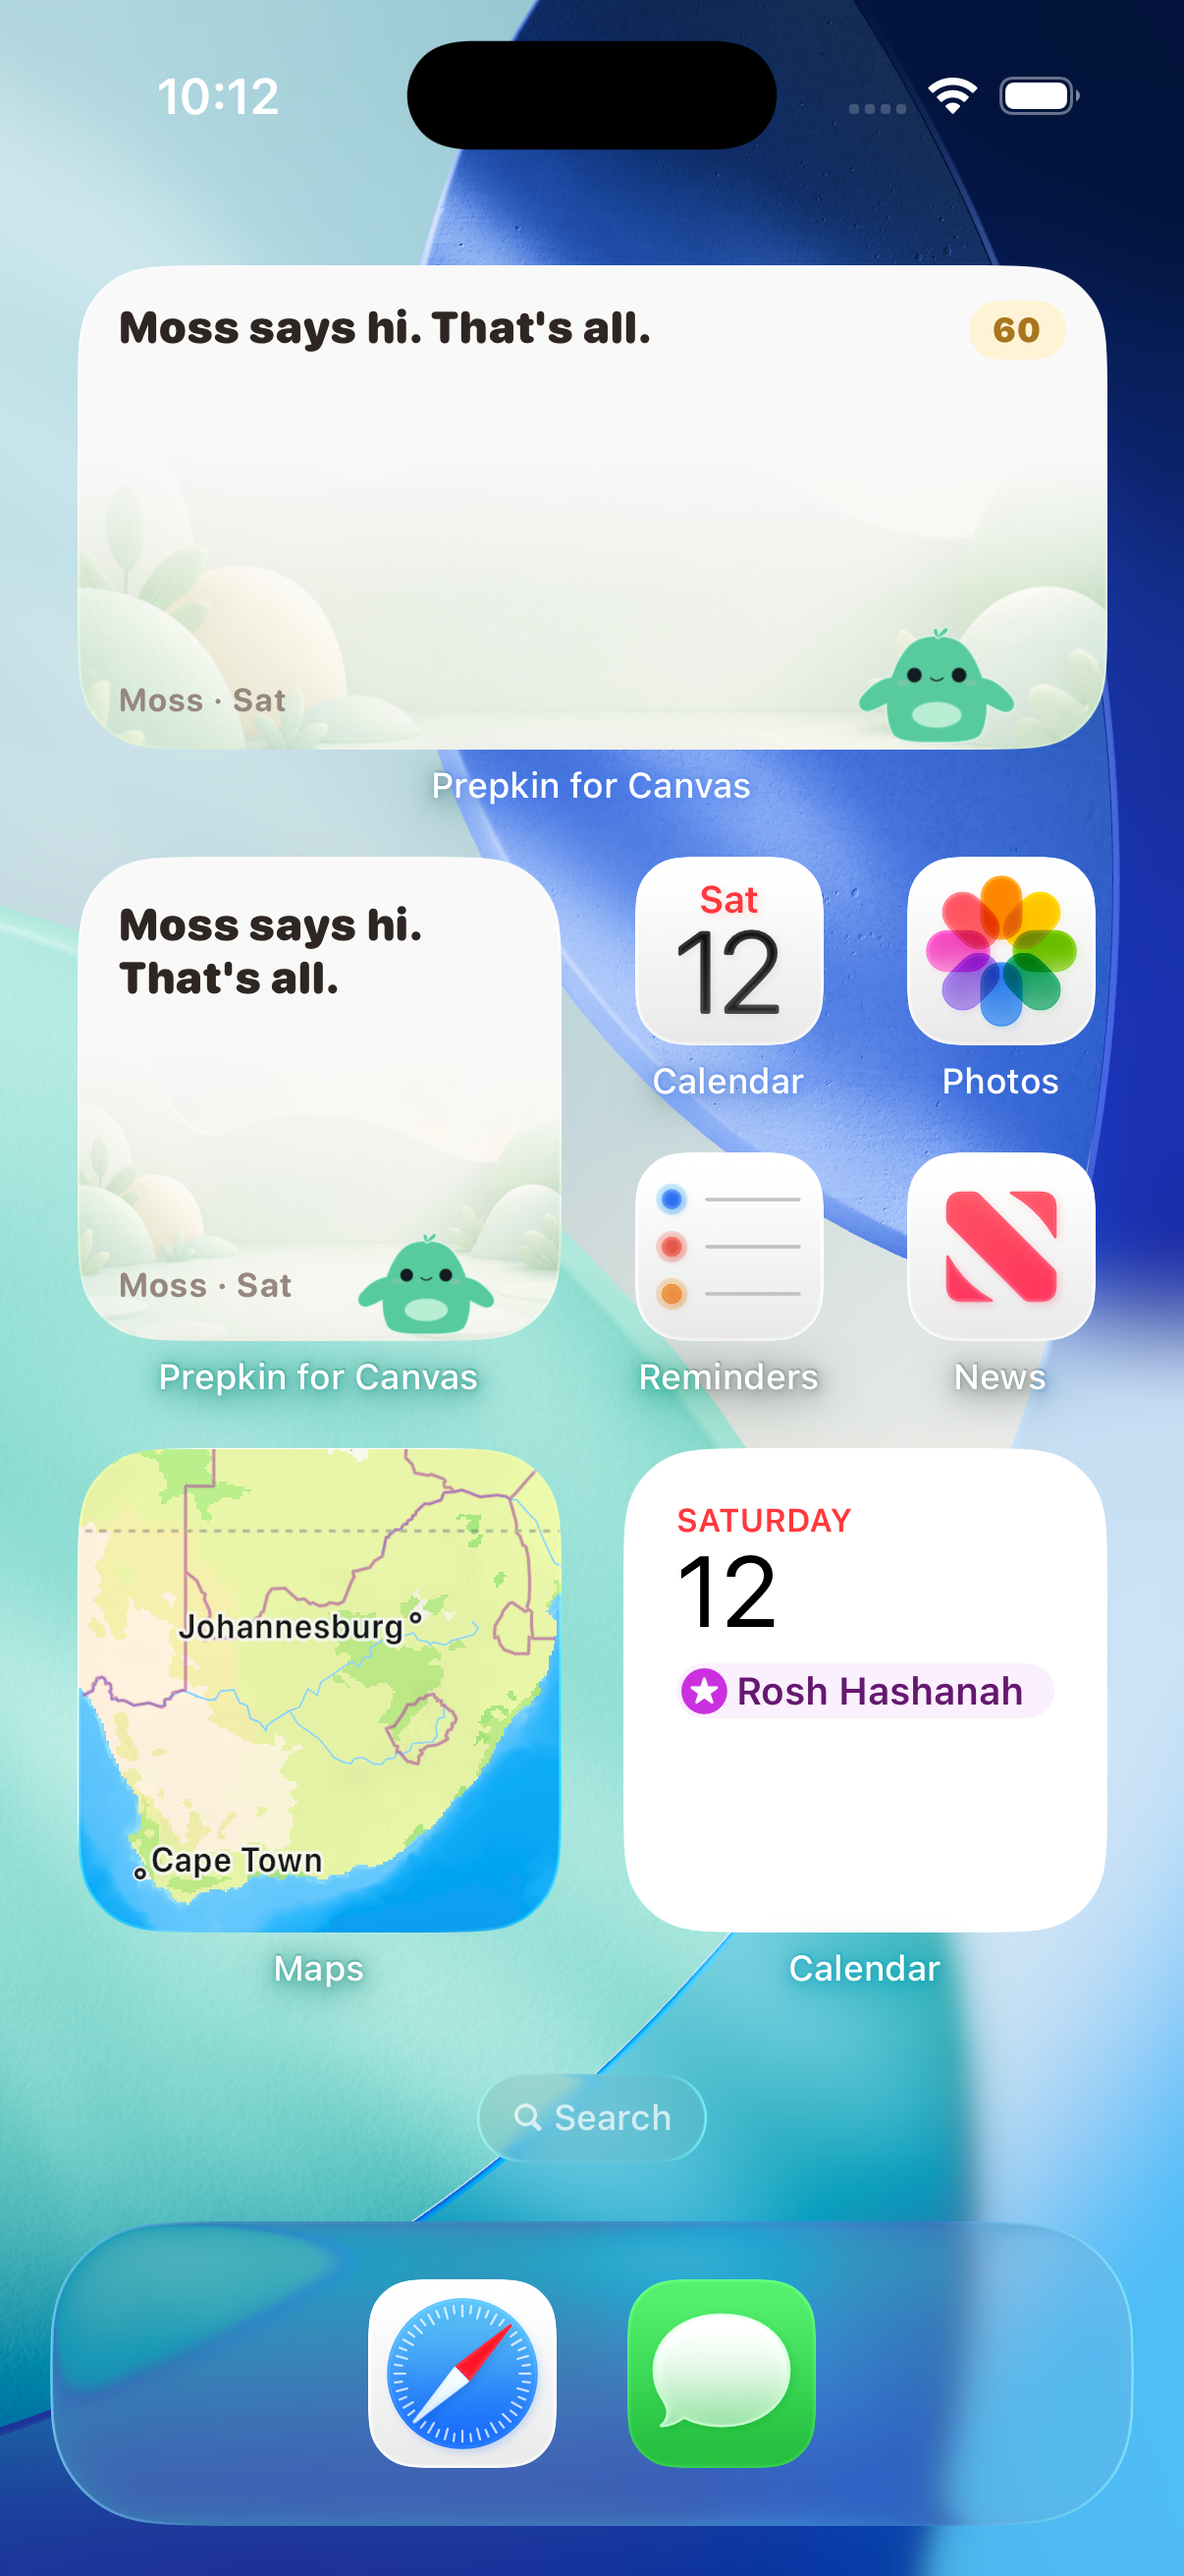
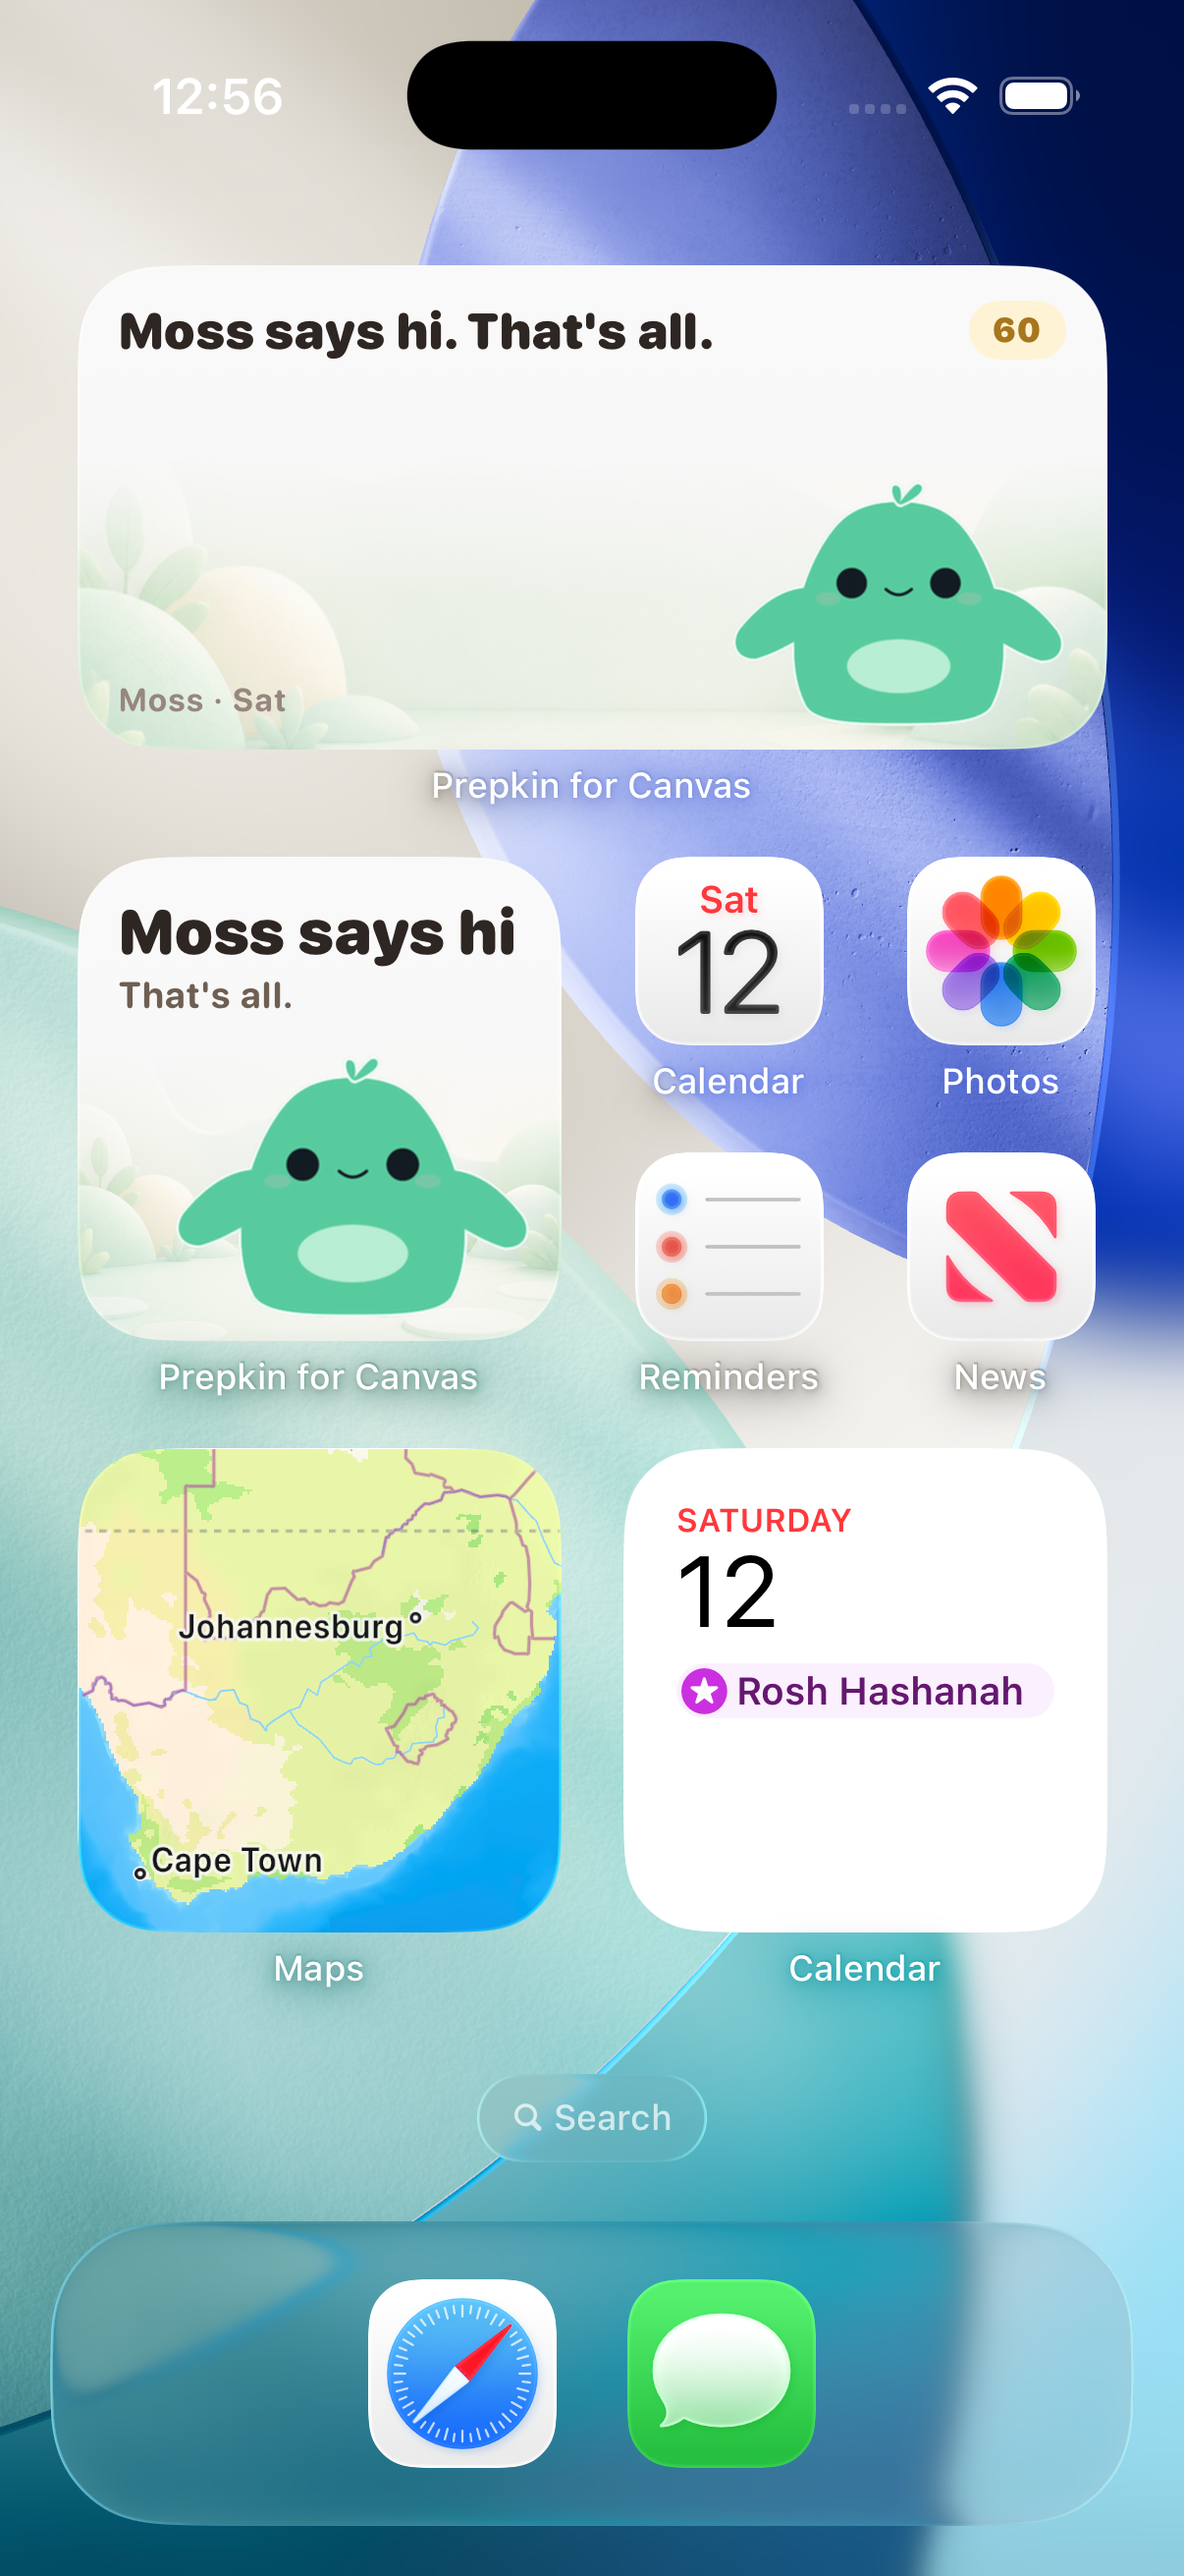
Widget: a head and a line, the way every pet widget says it
The small tile said a 40-character sentence. Duolingo's says "845 / Last
chance!", Me+'s "7 / Awesome!", Mimo's "1 / Well done!", Alan's "0 /
Let's get rolling!", and Finch's a one-word adventure state over the
bird. Ours now says "2 left" in big type over the first open task, and
the fish. The same rules in the same order, fewer words: "3 to do /
Read for one class", "2 left / Go to office hours", "All done / Moss
noticed.", "8:00 PM / Bio quiz due", "On shift / until 1:21 PM", "Moss /
is still here.", and a day-bank line split at its first full stop
("Nothing due / Enjoy it."). The name-and-day stamp is gone from the
small tile; none of the references carry one, the mascot is the name.
The medium shows the head alone, since its rows say the rest.

Tests: the head and line for every row at 9 AM, 3 PM and 9 PM; every
bank line splits to a head the big type holds; heads stay under 14.

diff --git a/ios/Widget/PrepkinWidget.swift b/ios/Widget/PrepkinWidget.swift
@@ -95,44 +95,44 @@ struct WidgetRoot: View {
     }
 }
 
-/// Four icon spots: the line top left, the kin bottom right, "Moss · Wed" under the line.
+/// Four icon spots: a big head top left ("2 left"), a small line under it, the
+/// kin three quarters of the tile wide in the bottom right. Duolingo's tile,
+/// Me+'s, Mimo's and Finch's are all this: a number or two words, a few more
+/// words, the mascot. No sentences and no name stamp — the fish is the name.
 struct SmallWidget: View {
     let entry: SnapshotEntry
     /// Three quarters of a 170pt tile. Measured off five pet widgets on Mobbin
     /// (Finch 88%, Duolingo 75%, Mimo 75%, Me+ 60%, Alan 100%); the middle of
-    /// that, and still clear of a three-line title.
+    /// that, and still clear of the two lines of text.
     static let kinSize: CGFloat = 126
 
     var body: some View {
         let snap = entry.snapshot ?? .sample
-        let line = entry.snapshot.map { WidgetLine.line(for: $0, now: entry.date) } ?? "Open Prepkin once."
-        // The kin is three quarters of the tile wide, the way Finch's bird,
-        // Duolingo's owl and Mimo's robot are on theirs: the text sits on top,
-        // the mascot owns the bottom. The stamp moves up under the line so the
-        // fish has the whole lower right.
+        let tile = entry.snapshot.map { WidgetLine.tile(for: $0, now: entry.date) } ?? (head: "Hi", sub: "Open Prepkin once.")
         ZStack(alignment: .bottomTrailing) {
             TankBand()
             KinStill(snapshot: snap, size: Self.kinSize)
                 .padding(.trailing, 8)
                 .padding(.bottom, 8)
-            VStack(alignment: .leading, spacing: 3) {
-                Text(line)
-                    .font(.system(size: 15, weight: .black, design: .rounded))
+            VStack(alignment: .leading, spacing: 1) {
+                Text(tile.head)
+                    .font(.system(size: 26, weight: .black, design: .rounded))
                     .foregroundStyle(Theme.ink)
-                    .lineLimit(3)
+                    .lineLimit(1)
+                    .minimumScaleFactor(0.6)
+                Text(tile.sub)
+                    .font(.system(size: 12.5, weight: .bold, design: .rounded))
+                    .foregroundStyle(Theme.tabInk)
+                    .lineLimit(2)
                     .minimumScaleFactor(0.85)
                     .fixedSize(horizontal: false, vertical: true)
-                Text(WidgetLine.stamp(snap.name, entry.date))
-                    .font(.system(size: 11.5, weight: .bold, design: .rounded))
-                    .foregroundStyle(Theme.muted)
-                    .lineLimit(1)
             }
             .padding(.horizontal, 14)
-            .padding(.top, 14)
+            .padding(.top, 13)
             .frame(maxWidth: .infinity, maxHeight: .infinity, alignment: .topLeading)
         }
         .accessibilityElement(children: .ignore)
-        .accessibilityLabel("\(line) \(snap.name).")
+        .accessibilityLabel("\(tile.head). \(tile.sub) \(snap.name).")
     }
 }
 
@@ -244,7 +244,7 @@ struct MediumWidget: View {
 
     var body: some View {
         let snap = entry.snapshot ?? .sample
-        let line = entry.snapshot.map { WidgetLine.line(for: $0, now: entry.date) } ?? "Open Prepkin once."
+        let tile = entry.snapshot.map { WidgetLine.tile(for: $0, now: entry.date) } ?? (head: "Hi", sub: "Open Prepkin once.")
         let rows = WidgetLine.rows(for: snap, now: entry.date)
         let open = WidgetLine.today(snap, now: entry.date).filter { !$0.done }.count
         ZStack(alignment: .bottomTrailing) {
@@ -253,12 +253,14 @@ struct MediumWidget: View {
                 .padding(.trailing, 12)
                 .padding(.bottom, 8)
             VStack(alignment: .leading, spacing: 0) {
+                // The head alone: the rows under it say what is left, so the
+                // sentence the small tile needs would only repeat them.
                 HStack(alignment: .top, spacing: 8) {
-                    Text(line)
-                        .font(.system(size: 15, weight: .black, design: .rounded))
+                    Text(rows.isEmpty ? "\(tile.head). \(tile.sub)" : tile.head)
+                        .font(.system(size: 17, weight: .black, design: .rounded))
                         .foregroundStyle(Theme.ink)
-                        .lineLimit(2)
-                        .minimumScaleFactor(0.85)
+                        .lineLimit(1)
+                        .minimumScaleFactor(0.8)
                     Spacer(minLength: 0)
                     CoinPill(coins: snap.coins)
                 }
@@ -270,7 +272,7 @@ struct MediumWidget: View {
                 .padding(.top, 8)
                 .padding(.trailing, 132)
                 Spacer(minLength: 2)
-                Text(open > 0 ? "Tap a box to finish it · \(open) left" : WidgetLine.stamp(snap.name, entry.date))
+                Text(open > 0 ? "Tap a box to finish it" : WidgetLine.stamp(snap.name, entry.date))
                     .font(.system(size: 11, weight: .bold, design: .rounded))
                     .foregroundStyle(Theme.muted)
                     .lineLimit(1)

diff --git a/ios/Tests/WidgetLineTests.swift b/ios/Tests/WidgetLineTests.swift
@@ -83,6 +83,52 @@ final class WidgetLineTests: XCTestCase {
                        "1 thing today. Essay outline first.", "a shift that ended is not a shift")
     }
 
+    // MARK: - The small tile: a head and a line, no sentences
+
+    private func tiles(_ s: WidgetSnapshot, day: Int = 9) -> [(head: String, sub: String)] {
+        hours.map { WidgetLine.tile(for: s, now: at(day, $0), calendar: calendar) }
+    }
+
+    func testTheTileSaysANumberThenTheFirstTask() {
+        let s = snap(tasks: [task("q", "Bio quiz", daily: false), task("e", "Essay outline"), task("w", "10 minute walk")])
+        for t in tiles(s) { XCTAssertEqual(t.head, "3 to do"); XCTAssertEqual(t.sub, "Bio quiz") }
+        let some = snap(tasks: [task("q", "Bio quiz", done: true, daily: false), task("e", "Essay outline"), task("w", "10 minute walk")])
+        for t in tiles(some) { XCTAssertEqual(t.head, "2 left"); XCTAssertEqual(t.sub, "Essay outline") }
+        let all = snap(tasks: [task("q", "Bio quiz", done: true), task("e", "Essay outline", done: true)])
+        for t in tiles(all) { XCTAssertEqual(t.head, "All done"); XCTAssertEqual(t.sub, "Moss noticed.") }
+    }
+
+    func testTheTileLeadsWithTheTimeWhenSomethingIsDueSoon() {
+        let s = snap(tasks: [task("q", "Bio quiz", due: at(9, 20), daily: false), task("e", "Essay outline")])
+        let t = WidgetLine.tile(for: s, now: at(9, 17, 30), calendar: calendar)
+        XCTAssertEqual(t.head, at(9, 20).formatted(.dateTime.hour().minute()))
+        XCTAssertEqual(t.sub, "Bio quiz due")
+    }
+
+    func testTheTileOnShiftAndAway() {
+        let shift = snap(tasks: [task("e", "Essay outline")], shiftEndsAt: at(9, 23))
+        let t = WidgetLine.tile(for: shift, now: at(9, 22), calendar: calendar)
+        XCTAssertEqual(t.head, "On shift")
+        XCTAssertEqual(t.sub, "until \(at(9, 23).formatted(.dateTime.hour().minute()))")
+        let away = snap(tasks: [task("e", "Essay outline")], on: 6, lastOpened: at(6, 8))
+        for t in tiles(away) { XCTAssertEqual(t.head, "Moss"); XCTAssertEqual(t.sub, "is still here.") }
+    }
+
+    func testTheTileSplitsABankLineIntoHeadAndSub() {
+        XCTAssertEqual(WidgetLine.splitBank("Nothing due. Enjoy it.").head, "Nothing due")
+        XCTAssertEqual(WidgetLine.splitBank("Nothing due. Enjoy it.").sub, "Enjoy it.")
+        XCTAssertEqual(WidgetLine.splitBank("Free day. Moss approves.").head, "Free day")
+        XCTAssertEqual(WidgetLine.splitBank("Quiet tank today.").head, "Nothing due")
+        XCTAssertEqual(WidgetLine.splitBank("Quiet tank today.").sub, "Quiet tank today.")
+        XCTAssertEqual(WidgetLine.splitBank("Moss is watching the bubbles.").head, "Nothing due")
+        // Every bank line yields a head the big type can hold on one line.
+        for line in DayBank.lines {
+            XCTAssertLessThanOrEqual(WidgetLine.splitBank(line).head.count, WidgetLine.headLength, line)
+        }
+        let empty = snap(tasks: [])
+        for t in tiles(empty) { XCTAssertFalse(t.head.isEmpty); XCTAssertFalse(t.sub.isEmpty) }
+    }
+
     // MARK: - The day after
 
     func testYesterdaysSnapshotBringsTheDailiesBackAndDropsTheRest() {
@@ -137,7 +183,11 @@ final class WidgetLineTests: XCTestCase {
                 lines.append(WidgetLine.line(for: s, now: now, calendar: calendar))
                 lines.append(WidgetLine.count(for: s, now: now, calendar: calendar))
                 lines.append(WidgetLine.stamp(s.name, now))
-                lines.append("Tap a box to finish it · 12 left")
+                lines.append("Tap a box to finish it")
+                let tile = WidgetLine.tile(for: s, now: now, calendar: calendar)
+                lines.append(tile.head)
+                lines.append(tile.sub)
+                XCTAssertLessThanOrEqual(tile.head.count, 14, tile.head)
             }
         }
         let banned = ["streak", "missed", "lose", "!", "day count", "days"]

diff --git a/ios/Widget/WidgetLine.swift b/ios/Widget/WidgetLine.swift
@@ -44,6 +44,53 @@ enum WidgetLine {
         return lead + fit(open[0].title, leaving: lead.count + " first.".count) + " first."
     }
 
+    /// What the small tile says: a short head in big type and a smaller line
+    /// under it. The grammar of every pet widget on Mobbin — Duolingo's
+    /// "845 / Last chance!", Me+'s "7 / Awesome!", Mimo's "1 / Well done!",
+    /// Finch's one-word adventure state — a number or two words, then a few
+    /// more, then the mascot. Same rules and order as `line`, fewer words.
+    static func tile(for snap: WidgetSnapshot, now: Date, calendar: Calendar = .current) -> (head: String, sub: String) {
+        let name = snap.name
+        if let end = snap.shiftEndsAt, end > now {
+            return ("On shift", "until \(end.formatted(.dateTime.hour().minute()))")
+        }
+        if let away = calendar.dateComponents([.day], from: snap.lastOpenedAt, to: now).day,
+           away >= awayAfterDays {
+            return (name, "is still here.")
+        }
+        let tasks = today(snap, now: now, calendar: calendar)
+        let open = tasks.filter { !$0.done }
+        if let soon = open.filter({ $0.dueAt.map { $0 > now && $0 <= now + dueWindow } ?? false })
+            .min(by: { $0.dueAt! < $1.dueAt! }) {
+            return (soon.dueAt!.formatted(.dateTime.hour().minute()), fit(soon.title, leaving: 20) + " due")
+        }
+        if tasks.isEmpty {
+            return splitBank(DayBank.line(name: name, on: now, seed: snap.dayBankSeed, calendar: calendar))
+        }
+        if open.isEmpty {
+            return ("All done", "\(name) noticed.")
+        }
+        let done = tasks.count - open.count
+        if done > 0 {
+            return ("\(open.count) left", fit(open[0].title, leaving: 20))
+        }
+        return ("\(open.count) to do", fit(open[0].title, leaving: 20))
+    }
+
+    /// The longest head the big type takes on one line of the small tile.
+    static let headLength = 12
+
+    /// "Nothing due. Enjoy it." → "Nothing due" / "Enjoy it." A bank line with
+    /// no break, or a head too long for the big type, goes under "Nothing due".
+    static func splitBank(_ line: String) -> (head: String, sub: String) {
+        if let range = line.range(of: ". ") {
+            let head = String(line[..<range.lowerBound])
+            let sub = String(line[range.upperBound...])
+            if head.count <= headLength { return (head, sub) }
+        }
+        return ("Nothing due", line)
+    }
+
     /// The list as it stands now. The snapshot is only rewritten when the app
     /// runs, so on a later day the dailies are open again, open Canvas work is
     /// still open, and the rest of that day's list is unknowable and left off.

diff --git a/design/screenshots/widget-2026-09-12/README.md b/design/screenshots/widget-2026-09-12/README.md
@@ -10,6 +10,7 @@ notification was delivered with `xcrun simctl push`.
 | Piece | Copies | Mobbin |
 |---|---|---|
 | Small widget: the kin, one line, tap opens the app | Finch's home screen widget (the bird and a line); Apple's Weather and Reminders for the size grammar, small is one thing | [d11b11e0](https://mobbin.com/screens/d11b11e0-3abc-4c9a-8cc7-31e98c571367) (the "Lee widget" card shows the widget itself) |
+| The small tile's words: a big head ("2 left") and a short line under it, nothing else | Duolingo "845 / Last chance!", Me+ "7 / Awesome!", Mimo "1 / Well done!", Alan "0 / Let's get rolling!", Finch's one-word adventure state. A number or two words, a few more words, the mascot. No sentences, no name stamp. | same five screens as the row below |
 | The kin's size on the small tile: 126pt of 170, three quarters | Measured off five pet widgets: Finch ~88% wide, Duolingo ~75%, Mimo ~75%, Me+ ~60%, Alan 100%. The middle of that, and still clear of a three-line title. | [c78046b1](https://mobbin.com/screens/c78046b1-5d17-4225-ad76-2d66a72ac8bd) Duolingo, [f5333bf0](https://mobbin.com/screens/f5333bf0-bc83-4ccc-aa63-615816678920) Mimo, [64d3a0fd](https://mobbin.com/screens/64d3a0fd-6639-4638-a576-ebb7cf2c3d93) Me+, [59d37b2f](https://mobbin.com/screens/59d37b2f-8b61-4da5-8e95-e917a1b7f622) Alan |
 | Medium widget: a list with boxes | Apple's Reminders widget: medium is a list | — |
 | Install card "Want Moss on your home screen?" | Finch's "Lee widget" card: the pet in a widget on a drawn phone, Add / No thanks | [d11b11e0](https://mobbin.com/screens/d11b11e0-3abc-4c9a-8cc7-31e98c571367) |
@@ -22,11 +23,11 @@ notification was delivered with `xcrun simctl push`.
 
 Widget states (small and medium together, page 1 of the home screen):
 
-- `widget-3-things-today.png` — morning, nothing done: "3 things today. Read for one… first." (this one is at the final kin size; the other four states were shot before the fish grew)
-- `widget-2-left.png` — one done: "2 left. Start the thing…, then done."
-- `widget-all-done.png` — "All done. Moss noticed."
-- `widget-nothing-on-the-list.png` — every template off: a day-bank line, "Moss says hi. That's all."
-- `widget-on-shift.png` — a shift running in Focus: "On shift"
+- `widget-3-things-today.png` — nothing done: "3 to do" over "Read for one class"
+- `widget-2-left.png` — one done: "2 left" over "Go to office hours"
+- `widget-all-done.png` — "All done" over "Moss noticed."
+- `widget-nothing-on-the-list.png` — every template off: a day-bank line split in two, "Moss says hi" over "That's all."
+- `widget-on-shift.png` — a shift running in Focus: "On shift" over "until 1:21 PM"
 - `widget-medium-box-tapped.png` — a box tapped on the medium: the row ticks and the line counts it; coins stay at 20 because the app has not paid yet
 - `widget-box-paid-on-open.png` — the app opened: 40 coins, the row done, the mark file cleared
 
